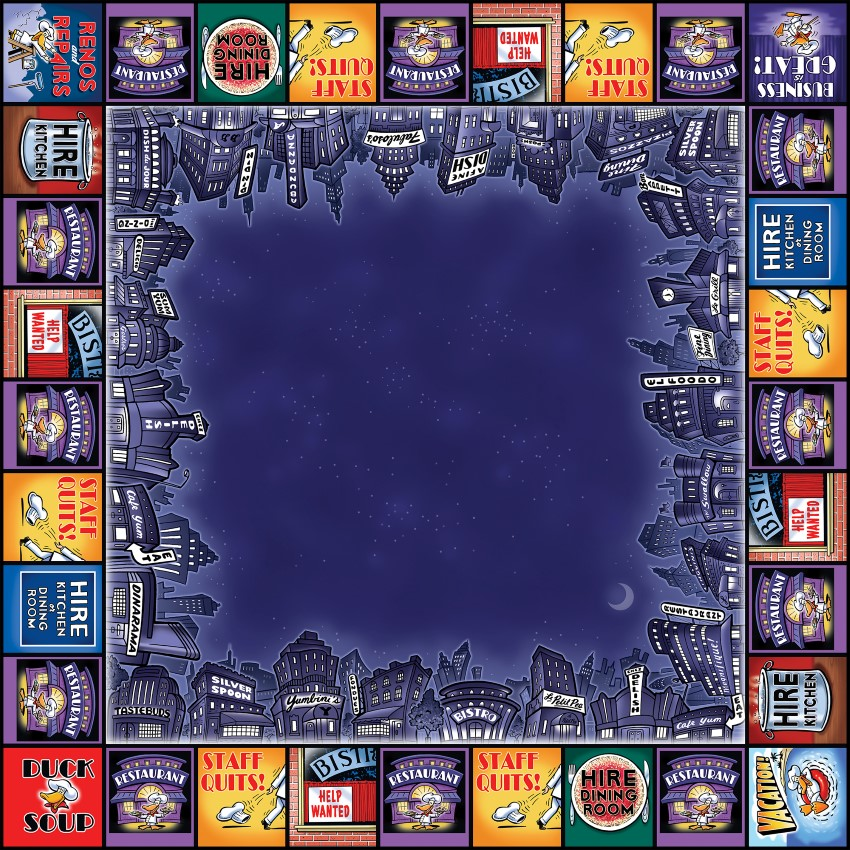
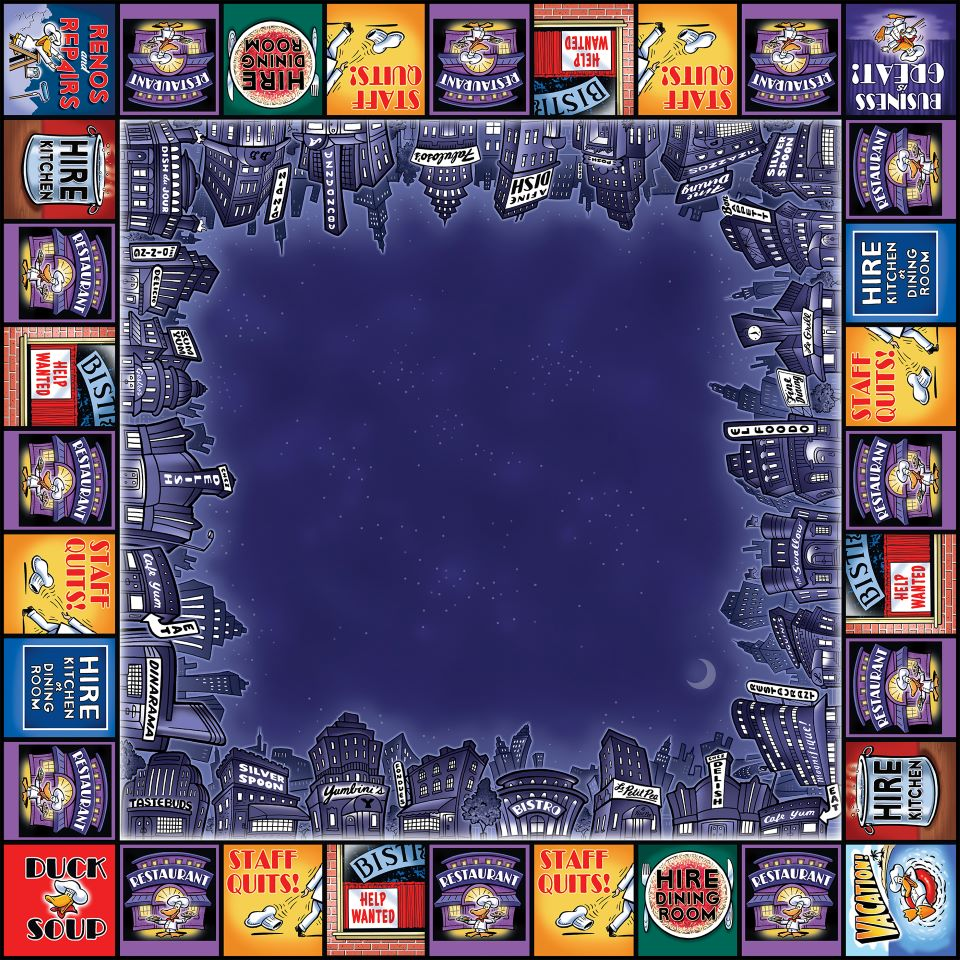
excellent staff grid

diff --git a/ducksoup.css b/ducksoup.css
@@ -65,10 +65,13 @@ body {
 }
 
 .container {
-    display: flex;
-    width: 100%;
+    background: linear-gradient(#5c629b, #35346d);
+    background-attachment: fixed;
+    font-size: 16px; 
+    margin:0;
+    padding:0;
+    box-sizing: border-box!important;
     height: 100%;
-    clear: both;
 }
 
 .clearfix::after { 
@@ -109,18 +112,18 @@ body {
 
 #board {
     display: flex;
-    width: 53.125rem;
-    height: 53.125rem;
+    background-size: 60rem 60rem;
+    width: 60rem;
+    height: 60rem;
     background-image: url('img/board.jpg');
     position: relative;
  }
 
  #inner-board {
-    display: flex;
     position: absolute;
     background-size: 28.125rem 28.125rem;
-    height: 28.125rem;
     width: 28.125rem;
+    height: 28.125rem;
     top: 50%;
     left: 50%;
     transform: translate(-50%, -50%);
@@ -132,7 +135,6 @@ body {
 }
 
 .board-contents {
-    display: flex;
     width: 50%;
     height: auto;
     max-height: 45%;
@@ -282,7 +284,7 @@ body {
     top: -0.5rem;
     padding-right: 1.875rem;
     right: 1.875rem;
-    z-index: 2;
+    z-index: 0;
     overflow: hidden;
 }
 
@@ -294,6 +296,7 @@ body {
     width: 90%; 
     margin: 0 auto;
     color: #fff;
+    position: relative;
 }
 
 .name-plate {
@@ -313,6 +316,7 @@ body {
     border-radius: 10px 10px 0px 0px;
     font-size: 1.25rem;
     position: relative;
+    margin: -1rem 0rem 0rem 1rem;
 }
 
 .super-duckat {
@@ -350,21 +354,23 @@ body {
     height: 2.188rem;
     border-radius: 0px 10px 0px 0px;
     margin-top: -2.188rem;
+    margin: -1rem -1rem 0rem 1rem;
 }
 
 .arrow {
     background: #3e3f83;
+    width: 4rem;
     border-radius: 50%;
-    padding: 1.875rem;
-    border: 0px;
+    margin: 3rem 2rem 3rem 3rem;
+    border: 0rem;
     display: inline-block;
     text-transform: uppercase;
     box-shadow: 0 8px 0 #2a2661;
     text-shadow: 0 2px 4px rgba(0, 0, 0, 0.5);
     position: absolute;
-    top: calc(50% - 1.875px);
+    top: calc(50% - -7.125rem);
     cursor: pointer;
-    z-index: 1;
+    z-index: -1;
 }
 
 #left-arrow { 
@@ -372,7 +378,7 @@ body {
 }
 
 #right-arrow {
-    right: 0;
+    right: -1rem;
 }
 
 .arrow span {
@@ -394,6 +400,94 @@ body {
     border-right: 0.938rem solid #fff;
     right: 1.563rem;
 }
+
+/**/
+/*CSS For staff card grid*/
+.card-grid {
+    display: grid;
+    grid-template-columns: repeat(6, 1fr);
+    grid-template-rows: repeat(2, 1fr);
+    gap: 12px;
+    border: 1px solid red;
+    width: 100%;
+    height: 100%;
+    padding: 1.59rem 0rem 0rem 2.4rem;
+  }
+  
+  .grid-item {
+    background-color: transparent; /* Initial background if needed */
+    position: relative; /* Positioning context for sprites */
+  }
+  
+  @media (max-width: 768px) {
+    .card-grid {
+      grid-template-columns: repeat(2, 1fr); /* Adjusts to 2 columns for smaller screens */
+      grid-template-rows: repeat(6, 1fr); /* Adjusts to 6 rows for smaller screens */
+    }
+  }
+
+  /*Object insertion for each image after*/
+
+  .grid-item::after {
+    content: '';
+    position: absolute;
+    top: 0;
+    left: 0;
+    right: 0;
+    bottom: 0;
+  }
+  
+  #ex-chef::after {
+    background-position: 0 0; /* Position the sprite for the chef */
+    background-size: cover; /* Or adjust to contain based on your sprite */
+    background-image: URL('img/ex-chef.jpg');
+    max-height: 11.2rem;
+    max-width: 7rem;
+  }
+  
+  #ex-sous-chef::after {
+    background-position: -100px 0; /* Adjust the value to match your sprite sheet */
+  }
+
+  #ex-first-cook::after {
+    background-position: -100px 0; /* Adjust the value to match your sprite sheet */
+  }
+
+  #ex-cook-1::after {
+    background-position: -100px 0; /* Adjust the value to match your sprite sheet */
+  }
+
+  #ex-cook-2::after {
+    background-position: -100px 0; /* Adjust the value to match your sprite sheet */
+  }
+
+  #ex-cook-3::after {
+    background-position: -100px 0; /* Adjust the value to match your sprite sheet */
+  }
+
+  #ex-maitre-d::after {
+    background-position: -100px 0; /* Adjust the value to match your sprite sheet */
+  }
+
+  #ex-sommelier::after {
+    background-position: -100px 0; /* Adjust the value to match your sprite sheet */
+  }
+
+  #ex-capitan::after {
+    background-position: -100px 0; /* Adjust the value to match your sprite sheet */
+  }
+
+  #ex-server-1::after {
+    background-position: -100px 0; /* Adjust the value to match your sprite sheet */
+  }
+
+  #ex-server-2::after {
+    background-position: -100px 0; /* Adjust the value to match your sprite sheet */
+  }
+  
+  #ex-server-3::after {
+    background-position: -300px -200px; /* Example values for the last server */
+  }
 
 @media screen and (max-width: 1500px) {
     html {
